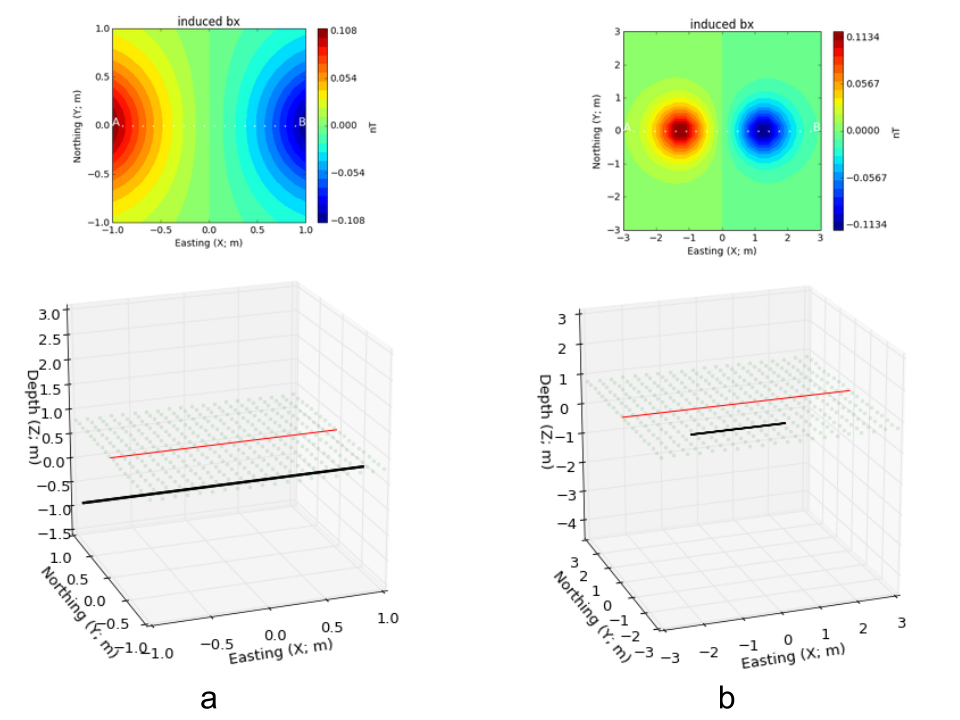
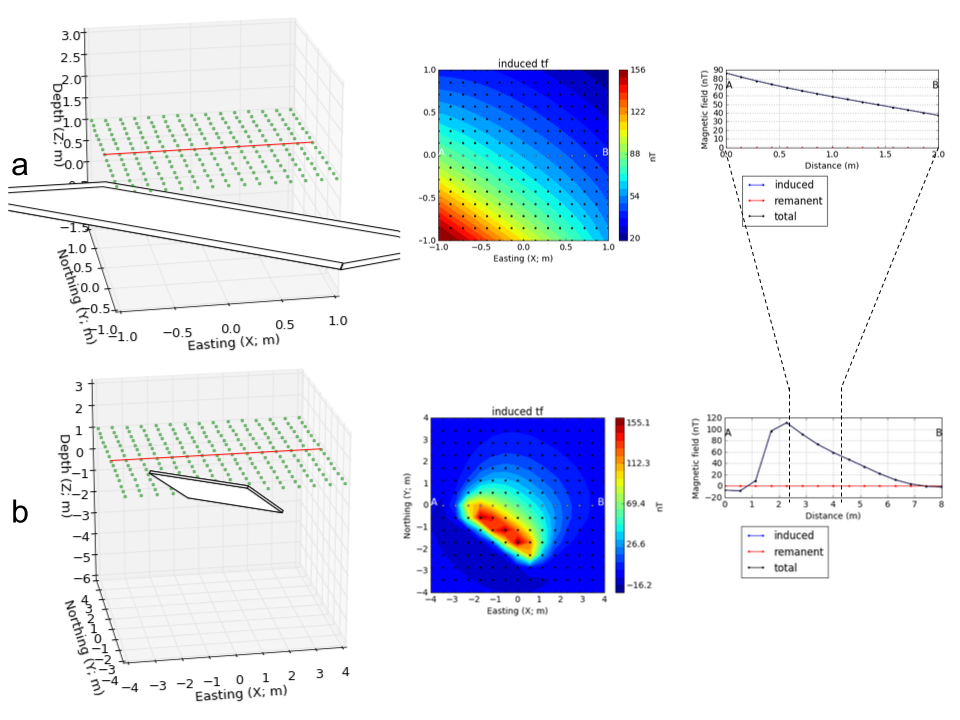
Improve example for Survey\Coverage

diff --git a/content/magnetics/magnetics_survey.rst b/content/magnetics/magnetics_survey.rst
@@ -16,10 +16,9 @@ Instrumentation
 
 A measurement of the magnetic field at any location will involve either
 recording the amplitude of the field or one of its three components.
-Instruments are deployed on the ground, in the air, on helicopters and fixed
-wing aircraft, and in space-borne geophysical platforms. Instrument types
+Instruments are deployed on the ground, in the air (helicopters and fixed
+wing aircraft) and in space-borne geophysical platforms. Instrument types
 commonly used are outlined very briefly as follows:
-
 
 Fluxgate Magnetometer
 ---------------------
@@ -33,12 +32,12 @@ Fluxgate Magnetometer
 - It is generally difficult to get leveling and alignment accurate. Sensor
   accuracy is 1 nT so orientation must be known to within .001 degrees.
 
-- There are some fluxgates which generate a measure of the total field strength.
+.. - There are some fluxgates which generate a measure of the total field strength.
 
 Proton Precession Magnetometer
 ------------------------------
 
-- This instrument was the most common type before the mid 1990's. It measures the amplitude of the magnetic field which is sometimes referred to as the total field intensity, and has an accronym TMI.
+- This instrument was the most common type before the mid 1990's. It measures the amplitude of the magnetic field which is sometimes referred to as the Total Field Intensity (TMI).
 
 - Advantages: Sensitive to 1 nT, small, rugged & reliable, not sensitive to orientation.
 
@@ -78,15 +77,8 @@ Cesium (or optically pumped) magnetometer:
   works in high gradients.
 
 - Disadvantages: Optical pumping won't work when parallel or perpendicular to
-  the magnetic field direction (solved with multiple sensors), more expensive
-  than proton precession.
-
-**SQUIDS** (superconducting quantum interference devices): These are very
-sensitive, and are currently more common in laboratories that work on rock
-magnetism or paleomagnetic studies. However, they are beginning to be used
-in the field, and more applications will become evident in the coming decade
-(2000 - 2010). Search the internet using, for example, "squid AND
-magnetometer AND geophysics" as keywords.
+  the magnetic field direction (solved with multiple sensors), ans also more
+  expensive   than proton precession.
 
 Magnetic Gradiometer
 --------------------
@@ -96,7 +88,14 @@ Magnetic Gradiometer
 
 - They often employ two cesium magnetometers separated by about 1 m.
 
+SQUIDS
+------
 
+(Superconducting Quantum Interference Devices): These are very
+sensitive, and are currently more common in laboratories that work on rock
+magnetism or paleomagnetic studies. However, they are beginning to be used
+in the field, and more applications will become evident in the coming decade
+(2000 - 2010).
 
 .. _magnetics_survey_layout:
 
@@ -108,14 +107,18 @@ A key component of any geophysical experiment is the design of an effective surv
 Coverage
 --------
 
-While there might be logistical and permitting constraints associate with the footprint of a survey, it is important to capture the entire most of the magnetic anomaly. :numref:`magnetic_coverage` compares two surveys over a an elongated magnetic rod. In the first case, the survey fails in capturing the extremities of the anomaly, and little can be said about the horizontal extent of the rod. In the second case, the survey area extends far beyond the peak values, delineating the edges of the magnetized object.
+While there might be logistical and permitting constraints associate with the footprint of a survey, it is important to capture most of the magnetic envelop. :numref:`magnetic_coverage` compares two surveys over a dipping plane [ Strike: :math:`315^{\circ}` , Dip: `45^{\circ}` ]. Both surveys used the same number of stations, hence would have cost roughly the same to acquire.
+
+ - In the first case (a), the survey barely reaches the edge of the plane and little can be said about its horizontal extent. The survey managed to measure the peak magnetic anomalies, but nothing can be inferred about a possible geometry of the plane.
+
+ - In the second case (b), the survey area covers far beyond the peak values, delineating the edges of the magnetized object. A trained eye could potentially recognize the signature of a dipping magnetic plane.
 
 .. figure:: ./images/magnetic_coverage.png
   :align: center
   :figwidth: 100%
   :name: magnetic_coverage
 
-  : (a) :math:`1\;m^2` and (b) :math:`9\;m^2` magnetic surveys over a 4 m long magnetic rod. The wider survey successfully captured the full amplitude of the magnetic anomaly.
+  : (a) :math:`1\;m^2` and (b) :math:`16\;m^2` magnetic surveys over a dipping magnetic plane. The wider survey successfully captured the full amplitude of the magnetic anomaly.
 
 Sampling interval
 -----------------
@@ -129,7 +132,10 @@ The sampling interval, or distance between observation points, is also important
 
   : Magnetic surveys at (a) :math:`0.4\;m` and (b) :math:`1.2\;m` station spacing  acquired over a magnetic magnetic rod oriented :math:`30^{\circ}` N.
 
+Base Station
+------------
 
+A key component of the :ref:`Processing<magnetics_processing>` phase is the removal of daily variations of the inducing field due to :ref:`external sources<magnetics_external_sources>`. To do so, a base station is generally set up in the vicinity of the survey area, away from known magnetic sources. The magnetometer at the base station records continuously during the survey period and serves as a reference for later processing of the magnetic data.
 
 .. _magnetics_line_profiles:
 

diff --git a/content/magnetics/magnetics_basic_principles.rst b/content/magnetics/magnetics_basic_principles.rst
@@ -111,6 +111,7 @@ orientated at D ~ 20°N,  ~ 70° Inclination. Various governmental agencies are
 actively collecting and archiving information about the parameters of the
 field worldwide and can be queried with the `magnetic field calculator`_.
 
+.. _magnetics_external_sources:
 
 Magnetic Weather
 ----------------
